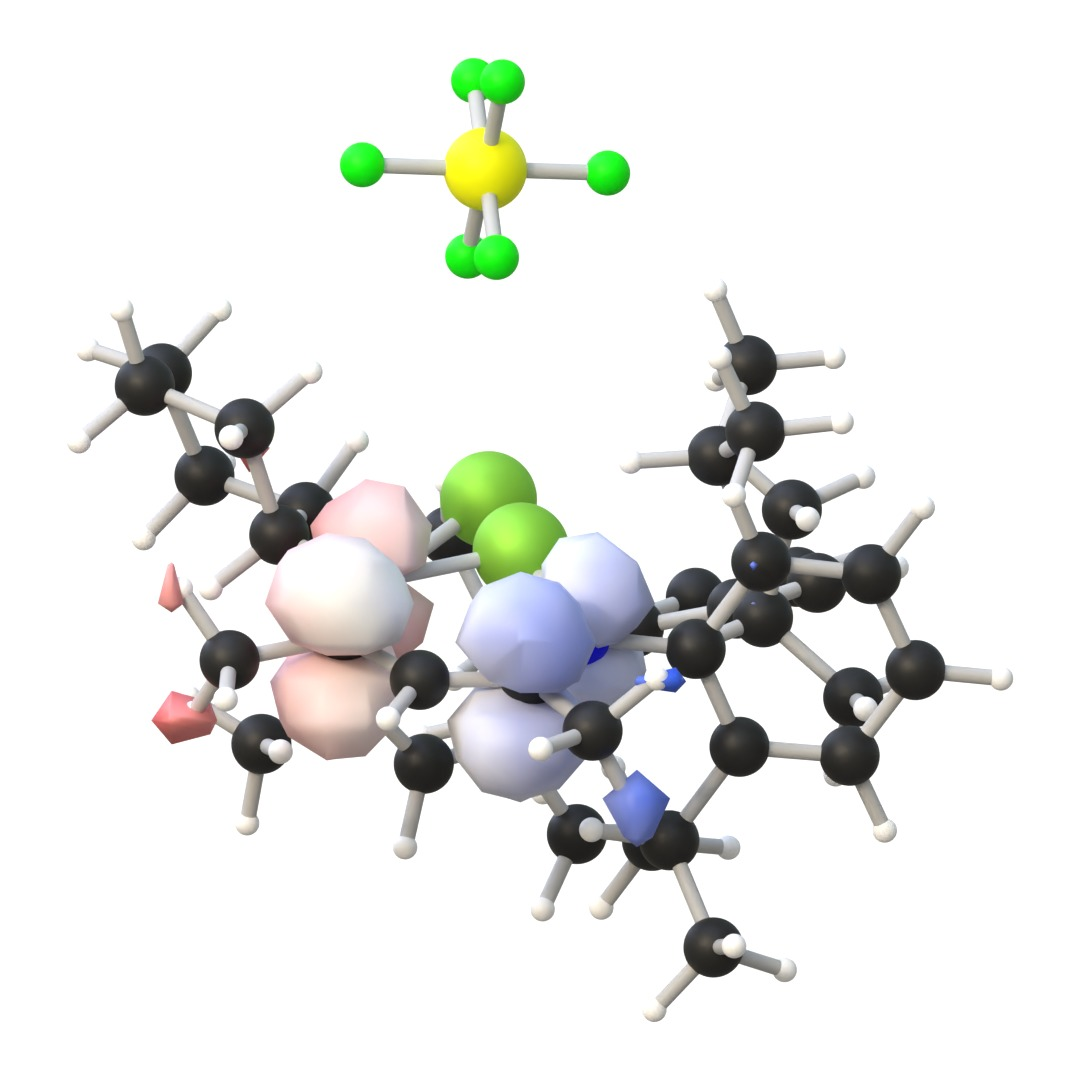
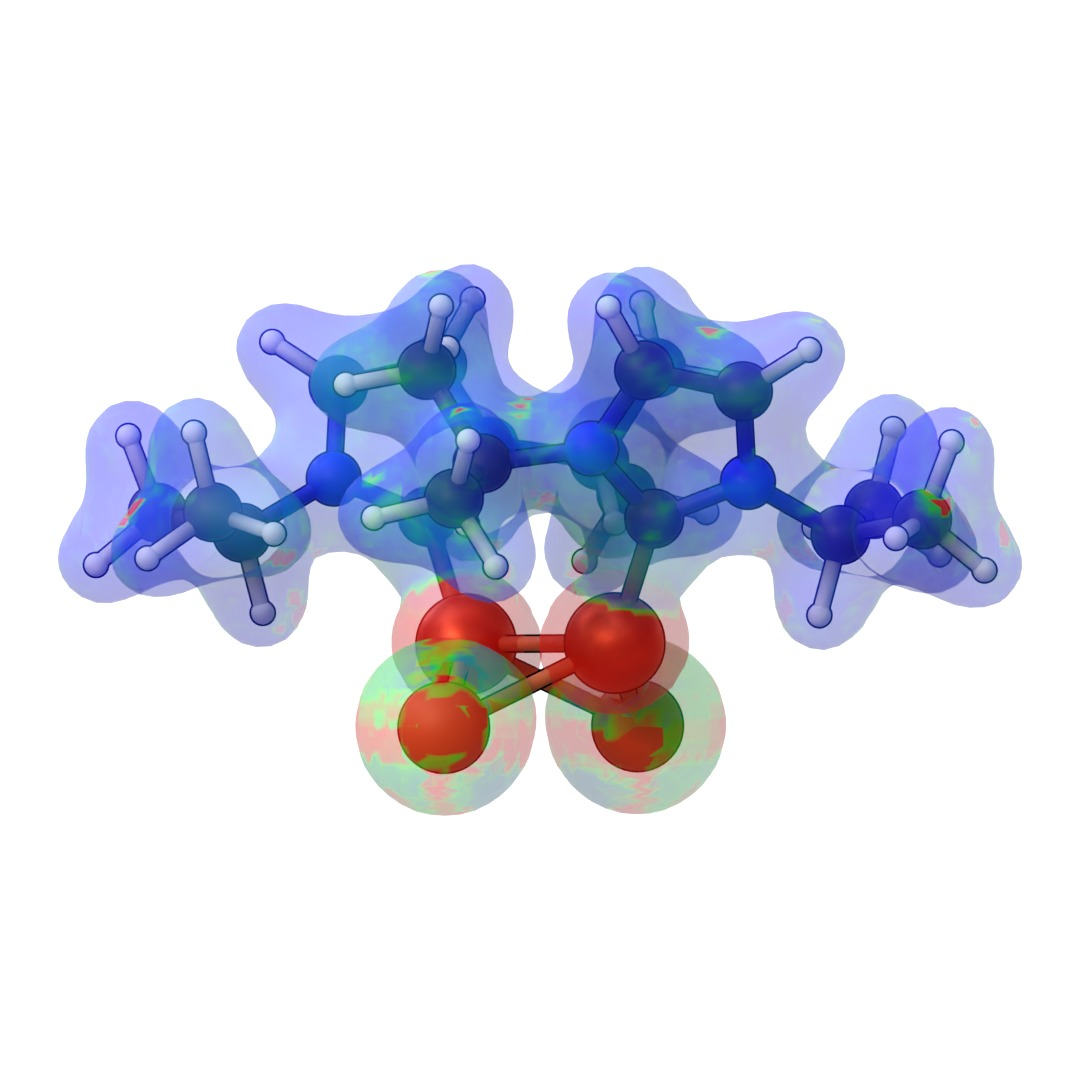
Gallery: outlined orbital, LED density mesh + Claude addon guide
Re-render the orbital-volume panel with outlines on the molecule and
swap the colored-density-mesh panel to the LED density/color with a
semi-transparent isosurface. Frame past hidden control-table helpers so
off-origin structures stay centered. Add docs/ADDON_GUIDE.md as a
reference for driving the add-on from the GUI and from scripts.

diff --git a/docs/ADDON_GUIDE.md b/docs/ADDON_GUIDE.md
@@ -1,0 +1,190 @@
+# blender-importASE — guide for Claude instances
+
+This is a Blender add-on for importing atomistic structures (via [ASE](https://wiki.fysik.dtu.dk/ase/)) and turning them into publication-quality renders: molecules, crystals, coordination polyhedra, electron-density isosurfaces (volume or mesh), partial-charge colorings, and 3D-printable models. This document is the reference for driving it — both from the Blender GUI and from Python scripts. Everything the GUI does calls the same functions you can call directly, so scripting and clicking are interchangeable.
+
+- **Package:** `blender_importASE/` (add-on version 2.2, min Blender 4.4; tested on 4.4 and 5.1).
+- **Dependencies:** `ase` (auto-installed on first `register()`), plus `scipy` (polyhedra), `scikit-image` (density-as-mesh, auto-installed), `openvdb`/`pyopenvdb` (volumetric density). See [§8](#8-dependencies).
+
+---
+
+## 1. Two ways to drive it
+
+**From the GUI.** *File ▸ Import* gains four entries and *File ▸ Export* gains two (see [§2](#2-operators-file--importexport)). After importing, the **N-panel ▸ ASE tab** (`ASE_PT_controls`) exposes live controls for the active structure: per-element radius mode, per-pair bond hiding, and the 3D-print support rebuilder ([§6](#6-live-controls-the-ase-n-panel)).
+
+**From Python.** Every operator is a thin wrapper over a module-level function. In a headless render or a notebook:
+
+```python
+import sys; sys.path.insert(0, '/path/to/blender-importASE')
+import bpy, blender_importASE
+blender_importASE.register()                       # installs ase if missing
+from blender_importASE.ui import import_ase_molecule
+import_ase_molecule('/data/mol.cube', 'mol.cube', representation='nodes',
+                    read_density=True, outline=True, add_supercell=False)
+```
+
+Run headless with:
+```
+blender -b --factory-startup --python your_script.py
+```
+
+Note the calling convention shared by all importers: `(filepath, filename, ...)` — `filepath` is the full path, `filename` is the basename (used to detect file type and name the collection). Sibling files (a second density for coloring, a charge CSV) are found in the same directory as `filepath`.
+
+---
+
+## 2. Operators (File ▸ Import/Export)
+
+| Menu entry | idname | Function | What it does |
+|---|---|---|---|
+| ASE Molecule (.*) | `import_mesh.ase` | `ui.import_ase_molecule` | Any ASE-readable structure/trajectory → atoms + bonds |
+| ASE Polyhedra (.*) | `import_mesh.ase_polyhedra` | `polyhedra.import_polyhedra` | Coordination polyhedra (convex hulls of neighbor shells) |
+| ASE Density as Mesh (.*) | `import_mesh.ase_density_mesh` | `density_mesh.import_density_mesh` | Marching-cubes isosurface mesh, optionally color-sampled |
+| ASE Charges (.*) | `import_mesh.ase_charges` | `charges.import_charges` | Structure with per-atom charge attribute + charge coloring |
+| ASE xyz (.xyz) | `export_mesh.ase_xyz` | `exports.export_xyz` | Active structure → .xyz (world-space coords) |
+| ASE 3D print (.zip) | `export_mesh.ase_3dprint` | `exports.export_3dprint` | Per-element STLs + bonds + supports, zipped |
+
+The importers accept multi-file selection (`files`/`directory` props). Exporters use the active object.
+
+---
+
+## 3. Importing molecules — `import_ase_molecule`
+
+```python
+import_ase_molecule(filepath, filename, overwrite=True, add_supercell=True,
+    resolution=32, colorbonds=False, long_bonds=False, color=0.2, scale=1,
+    unit_cell=False, representation="Balls'n'Sticks", read_density=True,
+    shift_cell=False, imageslice=1, animate=True, outline=True, **kwargs)
+```
+Reads via `ase.io.read(index=':')` (VASP CHGCAR-family via `read_vasp_density`), builds a collection named `<formula>_<stem>`, dispatches by `representation`, optionally draws the unit cell and reads the density volume.
+
+**`representation` values:**
+- `"nodes"` *(default in the GUI, recommended)* — the whole structure lives in one geometry-node modifier stack on a single-vertex mesh. Fastest, supports animated trajectories and the live control tables ([§6](#6-live-controls-the-ase-n-panel)). **Use this unless you specifically need real mesh geometry.**
+- `"Balls'n'Sticks"` — real sphere + cylinder meshes.
+- `"Licorice"` — same path, licorice styling.
+- `"VDW"` — van-der-Waals spheres only, no bonds.
+- `"3D_print"` — real spheres in an `atoms` sub-collection + node bonds with icosphere joints, so everything fuses watertight for printing/export ([§7](#7-3d-printing)).
+
+**Key options:**
+- `outline=True` — adds the dark-rim outline modifier. **House style for this project: always render molecules with `outline=True`.**
+- `read_density=True` — if the file carries a volume (`.cube`, CHGCAR/PARCHG/AECCAR), builds a volumetric density object (needs openvdb). Isosurface materials `'+ material'`/`'- material'`.
+- `add_supercell=True` — adds the supercell modifier when the cell is periodic; repeat counts live on `Socket_2/3/4` of that modifier ([§5](#5-the-nodes-modifier-stack-scripting-internals)).
+- `animate=True`, `imageslice=n` — for trajectories, animate every *n*th frame (`overwrite=True` forces `nodes`).
+- `colorbonds=True` — color bond halves by their atoms; `unit_cell=True` draws the cell box.
+
+The GUI operator passes different defaults (`scale=0.5`, `color=0.6`, `representation="nodes"`; its `zero_cell` maps to `shift_cell`).
+
+---
+
+## 4. The other importers
+
+### Polyhedra — `polyhedra.import_polyhedra`
+```python
+import_polyhedra(filepath, filename, expand_cutoff=1.2, trim_cutoff=1.0,
+    poly_cutoff=1.1, min_neighbors=4, include_hydrogen=False, resolution=16,
+    colorbonds=True, bond_distance=0.66, bond_radius=0.1, outline=False, **kwargs)
+```
+Builds a coordination polyhedron (convex hull, `scipy.spatial.ConvexHull`) around every atom with ≥`min_neighbors` neighbors within `poly_cutoff`×covalent radius. `expand_cutoff` pulls in periodic images so boundary polyhedra close; `trim_cutoff` removes stragglers. Produces the atoms/bonds structure object **plus** a separate `<name>_faces` mesh carrying an `atom_color` attribute and the semi-transparent `'polyhedra material'`. Outline (when on) goes on the atoms/bonds only, never the faces.
+
+### Density as mesh — `density_mesh.import_density_mesh`
+```python
+import_density_mesh(filepath, filename, color_filepath=None, iso_value=0.03,
+    shade_smooth=True, preset='DEFAULT', import_atoms=True, color_min=None,
+    color_max=None, sample_interior=False, **kwargs)
+```
+Runs marching cubes on the ±`iso_value` levels (`ValueError` if the iso is outside the data range). If `color_filepath` is given, samples that second density onto the surface into a `density_color` vertex attribute; `sample_interior=True` takes the strongest value along the surface normal through the whole volume rather than at the surface point. `color_min==color_max` (default 0) auto-normalizes.
+
+**`preset`** picks the color-ramp material:
+- `'DEFAULT'` → `'density_mesh material'`, red (0.0) → white (0.5) → blue (1.0)
+- `'ELSTAT'` → `'elstat_potential material'`, blue → white → red
+- `'LED'` → `'LED material'`, red (0.8) → green (0.9) → blue (1.0)
+
+To make the isosurface semi-transparent, set the material's Principled BSDF `Alpha` after import:
+```python
+mat = bpy.data.materials['LED material']
+mat.node_tree.nodes['Principled BSDF'].inputs['Alpha'].default_value = 0.4
+```
+`import_atoms=True` also imports the structure as `nodes`. To get outlined atoms alongside the mesh, import them separately with `import_ase_molecule(..., outline=True)` and pass `import_atoms=False`.
+
+### Charges — `charges.import_charges`
+```python
+import_charges(filepath, filename, charge_filepath, resolution=16,
+    colorbonds=True, bond_distance=0.66, bond_radius=0.1, outline=False, **kwargs)
+```
+Reads one charge per atom from a CSV/txt/dat (`read_charges_csv` takes the last numeric field per row; `ValueError` if the count ≠ atom count), stores a per-atom `charge` float attribute, and builds the structure with a `charge_colors` switch that toggles between element colors and a symmetric ±limit charge ramp (materials `'charge_atoms'` and `'color_curve_charge'`). Pass `outline=True` for the house style.
+
+---
+
+## 5. The `nodes` modifier stack (scripting internals)
+
+A `representation='nodes'` import stacks these modifiers on the single-vertex mesh, named `GeometryNodes`, `GeometryNodes.001`, … in order:
+
+1. `GeometryNodes` → `hide atoms`
+2. `GeometryNodes.001` → `supercell` — **only if periodic and `add_supercell`**; when skipped, all later indices shift down by one.
+3. next → `atoms_and_bonds_<formula>` — the main modifier
+4. next → `outline` (if `outline=True`)
+
+**Don't hardcode modifier indices** — a non-periodic import has no supercell modifier. Use `controls.find_ase_modifier(obj)` which returns `(modifier, {socket_name: identifier})`.
+
+**atoms_and_bonds sockets:** `Socket_2` = bond distance, `Socket_3` = bond radius, `Socket_4` = resolution. `pair_table`/`element_table` are Object sockets — reach them by identifier from `find_ase_modifier`, never by hardcoded name.
+
+**supercell sockets:** `Socket_2/3/4` = repeat x/y/z (int, default 1).
+
+**Control tables** (per structure, edited live or by script):
+- `pair_table` mesh: one point per element pair, BOOLEAN `cut` attribute — True hides that pair's bonds. Index with `controls.pair_id(z1, z2)` (`= min*119 + max`).
+- `element_table` mesh: one point per atomic number, INT `radius_mode` — 0 = covalent, 1 = vdW.
+
+Script example (hide Cu–Cu bonds, show Cu as vdW):
+```python
+from blender_importASE import controls
+from blender_importASE.controls import pair_id
+mod, idents = controls.find_ase_modifier(obj)
+mod[idents['pair_table']].data.attributes['cut'].data[pair_id(29, 29)].value = True
+mod[idents['element_table']].data.attributes['radius_mode'].data[29].value = 1
+mod[idents['pair_table']].data.update(); mod[idents['element_table']].data.update()
+obj.update_tag()
+```
+
+---
+
+## 6. Live controls (the ASE N-panel)
+
+`ASE_PT_controls` (VIEW_3D ▸ N-panel ▸ **ASE** tab) appears when the active object has a recognized geometry-node modifier. It draws:
+- a per-element radius-mode grid (`ase.set_radius_mode`, prop `number`) — covalent ↔ vdW,
+- a per-pair bond-cut grid (`ase.toggle_pair_cut`, prop `pair_id`),
+- a **3D printing** box with **Rebuild 3D-print supports** (`ase.rebuild_supports`) when the collection holds real element meshes,
+- one box per sibling density/geometry modifier.
+
+`ase.rebuild_supports` is live-adjustable in the F9 redo panel: `base_radius` (0.25), `tip_radius`/"contact radius" (0.1), `support_layer`/"support drop" (0.3), `plate_thickness` (0.6), `plate_holes` (True), `plate_gap` (2.0). It removes existing auto-supports and rebuilds via `exports.build_supports`.
+
+---
+
+## 7. 3D printing
+
+Import with `representation='3D_print'` (real spheres + fused node bonds with icosphere joints). Then either use the N-panel **Rebuild supports** button, or export directly:
+
+```python
+exports.export_3dprint(context, filepath, generate_supports=True,
+    base_radius=0.25, tip_radius=0.1, support_layer=0.8, plate_thickness=0.6,
+    plate_holes=True, plate_gap=2.0)
+```
+Writes one STL per element + `bonds.stl` + `supports.stl` and zips them.
+
+**Support behavior to know:** supports are generated **only if none already exist**. If you (or the Rebuild button) already made supports, `export_3dprint` exports them **as-is** and ignores its own support parameters. So the workflow is: rebuild supports in the N-panel until they look right, *then* export — the export reuses exactly what you see. Support generation uses a BVH of the real drawn bond geometry as the single source of truth for connectivity and obstacle avoidance (never skewers an atom; may graze bonds), with bottom-up island grounding and an optional holed base plate.
+
+`exports.build_supports(atom_objects, collection, ...)` is the underlying builder (defaults differ slightly: `support_layer=0.8`); pass `bond_objects=` the bond meshes so it can avoid them.
+
+---
+
+## 8. Dependencies
+
+- **ase** — required; auto-pip-installed into Blender's user `modules` path on `register()`. If install fails, no operators register and `ASEAddonPreferences.install_failed` is set.
+- **scipy** — polyhedra only; lazy import, no auto-install.
+- **scikit-image** — density-as-mesh; auto-installed on demand.
+- **openvdb/pyopenvdb** — volumetric density (`import_cubefiles.data2vol`); no auto-install, clear `ImportError` if missing.
+
+Heads-up: if the user has a dev ASE checkout on `sys.path`, it can shadow the pip ASE and cause version-skew surprises (e.g. CHGCAR species-line parsing). `read_vasp_density` is gzip-aware and retries stripping `/` from POTCAR-style species lines.
+
+---
+
+## 9. Rendering conventions for this repo
+
+Gallery panels and GIFs are rendered from `blender_startup.blend` (Cycles + packed HDRI world) with an orthographic camera framed to fit, 1080×1080 for panels. **Always render molecules with `outline=True`.** Reproducible render scripts live in `docs/` (e.g. `docs/render_trajectory_gif.py`). The scratchpad `render_panels.py` regenerates the whole `docs/images/` gallery.
